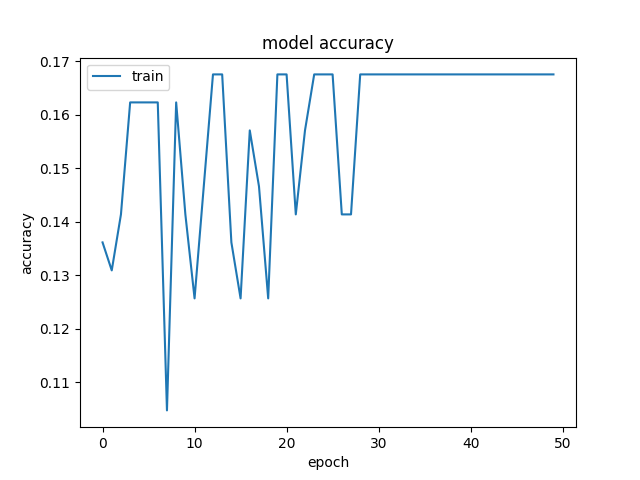
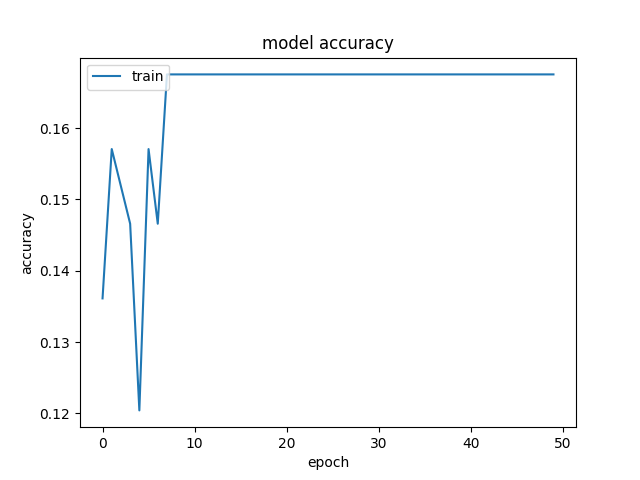
update files from FER training

diff --git a/article18/efficientNetB0_vgg16_FER.py b/article18/efficientNetB0_vgg16_FER.py
@@ -46,10 +46,10 @@ test_dataset = test_datagen.flow_from_directory(directory = '../../input/fer2013
                                                   batch_size = 64)                            
 
 #load efficientNetB0_FER.h5
-efficientNetB0_FER = keras.models.load_model('efficientNetB0_FER.h5')
+efficientNetB0_FER = keras.models.load_model('./models/efficientNetB0_FER.h5')
 efficientNetB0_FER._name = 'model1'
 #load vgg16_FER.h5
-vgg16_FER = keras.models.load_model('vgg16_FER.h5')
+vgg16_FER = keras.models.load_model('./models/vgg16_FER.h5')
 vgg16_FER._name = 'model2'
 
 models = [efficientNetB0_FER, vgg16_FER]
@@ -62,15 +62,14 @@ ensemble_model = keras.Model(inputs=model_input, outputs=ensemble_output)
 #compile the model
 ensemble_model.compile(optimizer = 'adam', loss = 'categorical_crossentropy', metrics = ['accuracy'])
 #history
-history = ensemble_model.fit(train_dataset, epochs=50, validation_data=valid_dataset)
+history = ensemble_model.fit(train_dataset, epochs=50, validation_data=valid_dataset, shuffle=True)
 
 #save model
-ensemble_model.save('efficientNetB0_vgg16_FER.h5')
+ensemble_model.save('models/efficientNetB0_vgg16_FER.h5')
 
 plt.plot(history.history['accuracy'])
-plt.plot(history.history['val_accuracy'])
 plt.title('model accuracy')
 plt.ylabel('accuracy')
 plt.xlabel('epoch')
-plt.legend(['train', 'test'], loc='upper left')
-plt.savefig('accuracy_efficientNetB0_vgg16_FER.png')
+plt.legend(['train'], loc='upper left')
+plt.savefig('accuracy_plots/accuracy_efficientNetB0_vgg16_FER.png')

diff --git a/article18/efficientNetB0_FER.py b/article18/efficientNetB0_FER.py
@@ -59,20 +59,19 @@ model = Model(inputs=base_model.input, outputs=prediction)
 
 model.summary()
 
-plot_model(model, to_file='efficientNetB0_FER.png', show_shapes=True,show_layer_names=True)
-Image(filename='efficientNetB0_FER.png') 
+plot_model(model, to_file='models/efficientNetB0_FER.png', show_shapes=True,show_layer_names=True)
+Image(filename='models/efficientNetB0_FER.png') 
 
 model.compile(optimizer='Adam', loss='categorical_crossentropy',metrics=['accuracy'])
 
-history = model.fit(train_dataset,validation_data=valid_dataset,epochs=50,verbose=1)
+history = model.fit(train_dataset,validation_data=valid_dataset,epochs=50,verbose=1, shuffle=True)
 
 #save model
-model.save('efficientNetB0_FER.h5')
+model.save('models/efficientNetB0_FER.h5')
 
 plt.plot(history.history['accuracy'])
-plt.plot(history.history['val_accuracy'])
 plt.title('model accuracy')
 plt.ylabel('accuracy')
 plt.xlabel('epoch')
-plt.legend(['train', 'test'], loc='upper left')
-plt.savefig('accuracy_efficientNetB0_FER.png')
+plt.legend(['train'], loc='upper left')
+plt.savefig('accuracy_plots/accuracy_efficientNetB0_FER.png')

diff --git a/article18/denseNet169_FER.py b/article18/denseNet169_FER.py
@@ -56,20 +56,19 @@ model = Model(inputs=base_model.input, outputs=prediction)
 
 model.summary()
 
-plot_model(model, to_file='denseNet169_FER.png', show_shapes=True,show_layer_names=True)
-Image(filename='denseNet169_FER.png') 
+plot_model(model, to_file='models/denseNet169_FER.png', show_shapes=True,show_layer_names=True)
+Image(filename='models/denseNet169_FER.png') 
 
 model.compile(optimizer='Adam', loss='categorical_crossentropy',metrics=['accuracy'])
 
-history=model.fit(train_dataset,validation_data=valid_dataset,epochs = 50,verbose = 1)
+history=model.fit(train_dataset,validation_data=valid_dataset,epochs = 50,verbose = 1, shuffle=True)
 
 #save model
-model.save('denseNet169_FER.h5')
+model.save('models/denseNet169_FER.h5')
 
 plt.plot(history.history['accuracy'])
-plt.plot(history.history['val_accuracy'])
 plt.title('model accuracy')
 plt.ylabel('accuracy')
 plt.xlabel('epoch')
-plt.legend(['train', 'test'], loc='upper left')
-plt.savefig('accuracy_denseNet169_FER.png')
+plt.legend(['train'], loc='upper left')
+plt.savefig('accuracy_plots/accuracy_denseNet169_FER.png')

diff --git a/article18/vgg16_FER.py b/article18/vgg16_FER.py
@@ -56,20 +56,19 @@ model = Model(inputs=base_model.input, outputs=prediction)
 
 model.summary()
 
-plot_model(model, to_file='vgg16_FER.png', show_shapes=True,show_layer_names=True)
-Image(filename='vgg16_FER.png') 
+plot_model(model, to_file='models/vgg16_FER.png', show_shapes=True,show_layer_names=True)
+Image(filename='models/vgg16_FER.png') 
 
 model.compile(optimizer='Adam', loss='categorical_crossentropy',metrics=['accuracy'])
 
-history=model.fit(train_dataset,validation_data=valid_dataset,epochs = 50,verbose = 1)
+history=model.fit(train_dataset,validation_data=valid_dataset,epochs = 50,verbose = 1, shuffle=True)
 
 #save model 
-model.save('vgg16_FER.h5')
+model.save('models/vgg16_FER.h5')
 
 plt.plot(history.history['accuracy'])
-plt.plot(history.history['val_accuracy'])
 plt.title('model accuracy')
 plt.ylabel('accuracy')
 plt.xlabel('epoch')
-plt.legend(['train', 'test'], loc='upper left')
-plt.savefig('accuracy_vgg16_FER.png')
+plt.legend(['train'], loc='upper left')
+plt.savefig('accuracy_plots/accuracy_vgg16_FER.png')

diff --git a/article18/efficientNetB0_JAFFE.py b/article18/efficientNetB0_JAFFE.py
@@ -81,7 +81,7 @@ Image(filename='models/efficientNetB0_JAFFE.png')
 model.compile(optimizer='Adam', loss='categorical_crossentropy',metrics=['accuracy'])
 
 # Training
-history = model.fit(x_train, y_train, batch_size=7, epochs=50, verbose=1, validation_data=(x_test, y_test), shuflle=True)
+history = model.fit(x_train, y_train, batch_size=7, epochs=50, verbose=1, validation_data=(x_test, y_test), shuffle=True)
 
 #save model
 model.save('models/efficientNetB0_JAFFE.h5')
